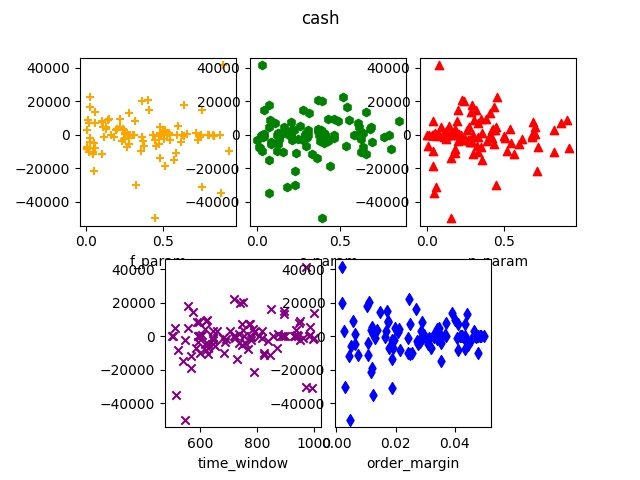
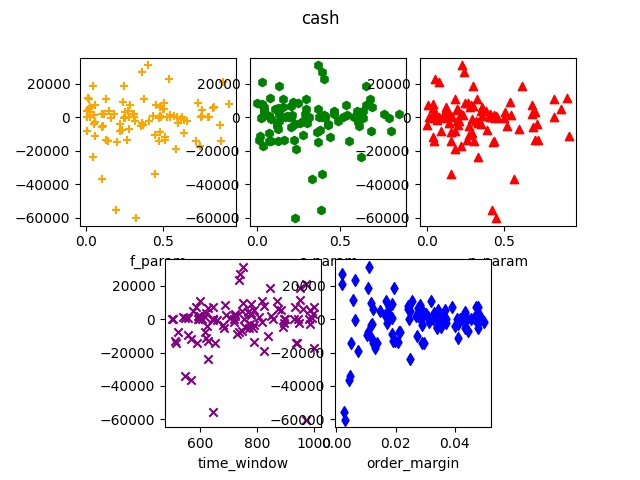
extended simulator FCN to have variable number of trades per minute

diff --git a/temp/fcn_simulator_update.py b/temp/fcn_simulator_update.py
@@ -1,0 +1,116 @@
+import numpy as np
+from numpy import exp, array
+from numpy.random import RandomState
+
+from market.agent import AgentFCN
+from market.exchange import Exchange
+
+from market.simulator import Simulator
+
+
+class SimulatorFCN(Simulator):
+
+    def __init__(self, exchange: Exchange, n_agents: int, initial_fund_price: int, fund_price_vol: float,
+                 scale_fund=None, scale_chart=None, scale_noise=None, fund_price_trend=0, random_seed: int = 42):
+        super().__init__(exchange, n_agents)
+        self.fund_price_vol = fund_price_vol
+        self.fund_price_trend = fund_price_trend
+        self.initial_fund_price = initial_fund_price
+        rand_state = RandomState(random_seed)
+        if scale_fund is not None:
+            self.scale_fund = scale_fund
+        else:
+            self.scale_fund = rand_state.normal(0.3, 0.03)
+        if scale_chart is not None:
+            self.scale_chart = scale_chart
+        else:
+            self.scale_chart = rand_state.normal(0.3, 0.03)
+        if scale_noise is not None:
+            self.scale_noise = scale_noise
+        else:
+            self.scale_noise = rand_state.normal(0.3, 0.03)
+        self.agents_fcn = rand_state.exponential(size=(n_agents, 3))
+        self.agents_fcn *= array([[self.scale_fund, self.scale_chart, self.scale_noise]])
+        self.agents_time_window = rand_state.randint(500, 1001, size=(n_agents,))
+        self.agents_order_margin = rand_state.uniform(0, 0.05, size=(n_agents,))
+        self.agents = [AgentFCN(self.exchange,
+                                *self.agents_fcn[i],
+                                self.agents_time_window[i],
+                                self.agents_order_margin[i]) for i in range(self.n_agents)]
+        self.fund_price_series = array([])
+
+    def create_fundamental_price_series(self, n_steps, random_seed: int):
+        rand_state = RandomState(random_seed)
+        evolution = rand_state.normal(size=n_steps)
+        percentage_change = exp(
+            evolution * self.fund_price_vol + self.fund_price_trend - 0.5 * self.fund_price_vol ** 2)
+        time_series = percentage_change.cumprod() * self.initial_fund_price
+        self.fund_price_series = time_series
+
+    def clear_cache(self):
+        super().clear_cache()
+        self.fund_price_series = array([])
+
+    def run(self, n_steps: int, average_trades_per_step: int, snapshot_interval: int,
+            cancel_order_interval: int, random_seed: int = 42):
+        self.clear_cache()
+
+        rand_state = RandomState(random_seed)
+
+        self.create_fundamental_price_series(n_steps, rand_state.randint(1000))
+
+        n_draws = n_steps * average_trades_per_step * 2
+
+        waiting_times = rand_state.exponential(1 / average_trades_per_step, size=n_draws)
+        time_of_trade = waiting_times.cumsum()
+        minute_of_trade = time_of_trade.astype(int)
+        minute_of_trade = minute_of_trade[minute_of_trade < n_steps]
+        n_trades = len(minute_of_trade)
+        unique_minute_of_trade = np.unique(minute_of_trade)
+
+        agents = rand_state.randint(0, self.n_agents, size=n_trades)
+        agents_noise = rand_state.normal(0, 0.0001, size=n_trades)
+        agents_volume = rand_state.randint(1, 5, size=n_trades)
+        agents_buy_outcome = rand_state.uniform(size=n_trades)
+        orders_to_cancel = []
+        current_minute = 0
+        changed_period = True
+
+        for i in range(n_trades):
+
+            if current_minute != minute_of_trade[i]:
+                changed_period = True
+                current_minute = minute_of_trade[i]
+
+            if current_minute % snapshot_interval == 0 and current_minute > 0 and changed_period:
+                self.save_market_snapshot(current_minute)
+
+            if changed_period:
+                orders_to_cancel += [[]]
+
+            time_window = self.agents[agents[i]].submit_time_window()
+            if time_window > current_minute - 1:
+                previous_price = None
+            else:
+                if len(self.last_mid_price_series) >= time_window:
+                    previous_price = self.last_mid_price_series[-time_window]
+                else:
+                    previous_price = self.last_mid_price_series[0]
+
+            self.agents[agents[i]].get_data(self.fund_price_series[current_minute], self.initial_fund_price,
+                                            previous_price, agents_noise[i])
+            order_receipt = self.agents[agents[i]].decide_order(agents_volume[i], agents_buy_outcome[i])
+            orders_to_cancel[-1] += [(agents[i], order_receipt.order_id)]
+
+            if changed_period:
+                self.mid_price_series.add(current_minute, self.exchange.mid_price)
+                self.last_mid_price_series.add(current_minute, self.exchange.last_valid_mid_price)
+
+            if current_minute >= cancel_order_interval and changed_period:
+                for agent_id, order_id in orders_to_cancel[0]:
+                    self.agents[agent_id].cancel_order(order_id)
+                del orders_to_cancel[0]
+
+            changed_period = False
+
+        self.market_snapshots.format_price_to_volume()

diff --git a/temp/visualize_fcn_test.py b/temp/visualize_fcn_test.py
@@ -1,32 +1,32 @@
 from analysis.simulation_visualizer import VisualizeSimulationFCN
 
 if __name__ == "__main__":
-    from market.simulator import SimulatorFCN
+    from temp.fcn_simulator_update import SimulatorFCN
     from market.exchange import Exchange
     import os
 
-    if not os.path.exists('../results/visualize_fcn/'):
-        os.makedirs('../results/visualize_fcn/')
+    if not os.path.exists('../results/_test/visualize_fcn/'):
+        os.makedirs('../results/_test/visualize_fcn/')
 
     exchange = Exchange()
     simulator_fcn = SimulatorFCN(exchange, 100, 500, 0.001)
     simulator_fcn.run(1000, 10, 5, 20)
     visualizer = VisualizeSimulationFCN(simulator_fcn)
     visualizer.plot_order_book()
-    visualizer.plot_save_and_show("../results/fcn_lbo_heatmap.jpg")
+    visualizer.plot_save_and_show("../results/_test/fcn_lbo_heatmap.jpg")
     visualizer.compute_agents_info()
     visualizer.plot_agents_attributes_vs_parameters('value_portfolio')
-    visualizer.plot_save_and_show("../results/visualize_fcn/value_portfolio_vs_parameters.jpg", False)
+    visualizer.plot_save_and_show("../results/_test/visualize_fcn/value_portfolio_vs_parameters.jpg", False)
     visualizer.plot_agents_attributes_vs_parameters('cash')
-    visualizer.plot_save_and_show("../results/visualize_fcn/cash_vs_parameters.jpg", False)
+    visualizer.plot_save_and_show("../results/_test/visualize_fcn/cash_vs_parameters.jpg", False)
     visualizer.plot_agents_attributes_vs_parameters('stock')
-    visualizer.plot_save_and_show("../results/visualize_fcn/stock_vs_parameters.jpg", False)
+    visualizer.plot_save_and_show("../results/_test/visualize_fcn/stock_vs_parameters.jpg", False)
     del exchange
     del simulator_fcn
     del visualizer
 
 if __name__ == "__main__":
-    from market.simulator import SimulatorFCN
+    from temp.fcn_simulator_update import SimulatorFCN
     from market.exchange import Exchange
 
     exchange = Exchange()
@@ -34,14 +34,14 @@ if __name__ == "__main__":
     simulator_fcn.run(10000, 5, 5, 20)
     visualizer = VisualizeSimulationFCN(simulator_fcn)
     visualizer.plot_order_book()
-    visualizer.plot_save_and_show("../results/visualize_fcn/fcn_lbo_heatmap_1000.jpg")
+    visualizer.plot_save_and_show("../results/_test/visualize_fcn/fcn_lbo_heatmap_1000.jpg")
     visualizer.compute_agents_info()
     visualizer.plot_agents_attributes_vs_parameters('value_portfolio')
-    visualizer.plot_save_and_show("../results/visualize_fcn/value_portfolio_vs_parameters.jpg", False)
+    visualizer.plot_save_and_show("../results/_test/visualize_fcn/value_portfolio_vs_parameters.jpg", False)
     visualizer.plot_agents_attributes_vs_parameters('cash')
-    visualizer.plot_save_and_show("../results/visualize_fcn/cash_vs_parameters.jpg", False)
+    visualizer.plot_save_and_show("../results/_test/visualize_fcn/cash_vs_parameters.jpg", False)
     visualizer.plot_agents_attributes_vs_parameters('stock')
-    visualizer.plot_save_and_show("../results/visualize_fcn/stock_vs_parameters.jpg", False)
+    visualizer.plot_save_and_show("../results/_test/visualize_fcn/stock_vs_parameters.jpg", False)
     del exchange
     del simulator_fcn
     del visualizer

diff --git a/notes/exponential_distribution_exploration.py b/notes/exponential_distribution_exploration.py
@@ -1,0 +1,15 @@
+import numpy as np
+import matplotlib.pyplot as plt
+
+average_trade_per_step = 3
+
+waiting_times = np.random.exponential(1/average_trade_per_step, size=100000)
+
+time_of_trade = waiting_times.cumsum()
+
+minute_of_trade = time_of_trade.astype(int)
+
+values, counts = np.unique(minute_of_trade, return_counts=True)
+
+plt.hist(counts)
+plt.show()

diff --git a/analysis/simulation_visualizer.py b/analysis/simulation_visualizer.py
@@ -37,7 +37,7 @@ class VisualizeSimulation:
             plt.legend()
         if save_name is not None:
             plt.savefig(save_name)
-        plt.show(block=False)
+        plt.show()
 
     def add_mid_price(self):
         plt.plot(self.mid_price.time_step, self.mid_price.price, color='green', label='mid price')

diff --git a/analysis/market_analyzer.py b/analysis/market_analyzer.py
@@ -334,7 +334,7 @@ class MarketVisualizer(MarketVisualizerAbstract):
         plt.suptitle(f'Markets comparison for {returns_interval} periods returns')
         if save_name is not None:
             plt.savefig(save_name)
-        plt.show(block=False)
+        plt.show()
 
 
 def normal_pdf(values):
